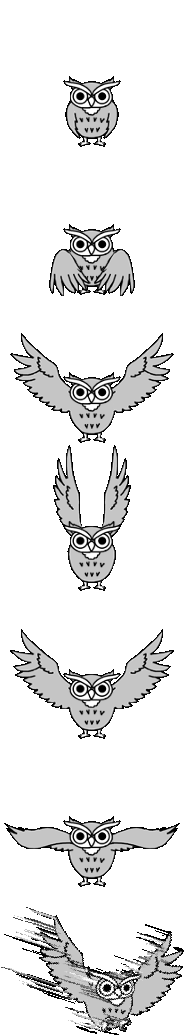
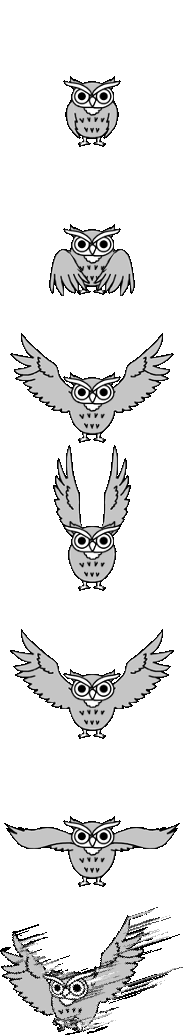
Updated NPC's Sprites

diff --git a/Content/NPCs/CycloneBoss/Cyclone.cs b/Content/NPCs/CycloneBoss/Cyclone.cs
@@ -21,7 +21,8 @@ namespace TheBattleCats.Content.NPCs.CycloneBoss
         {
             Idle,
             Attack1,
-
+            Attack2,
+            Attack3,
         }
 
         public ref float AIState => ref NPC.ai[0];
@@ -43,8 +44,8 @@ namespace TheBattleCats.Content.NPCs.CycloneBoss
             NPC.knockBackResist = 0f;
             NPC.noGravity = true;
             NPC.noTileCollide = true;
-            NPC.width = 140;
-            NPC.height = 140;
+            NPC.width = 120;
+            NPC.height = 120;
             NPC.boss = true;
         }
 
@@ -95,6 +96,13 @@ namespace TheBattleCats.Content.NPCs.CycloneBoss
                 case (float)ActionState.Attack1:
                     Attack1();
                     break;
+                case (float)ActionState.Attack2:
+                    Attack2();
+                    break;
+                case (float)ActionState.Attack3:
+                    Attack3();
+                    break;
+                
 
             }
 
@@ -110,7 +118,7 @@ namespace TheBattleCats.Content.NPCs.CycloneBoss
             if (AITimer >= 120f)
             {
                 AITimer = 0f;
-                AIState = (float)ActionState.Attack1;
+                AIState = (float)ActionState.Attack3;
             }
         }
 
@@ -173,8 +181,203 @@ namespace TheBattleCats.Content.NPCs.CycloneBoss
                 AITimer = 0f;
                 OrbitAngle = 0f;
                 LaunchDirection = Vector2.Zero;
-                AIState = (float)ActionState.Attack1;
+                AIState = (float)ActionState.Attack2;
             }
         }
+
+    private float Attack2Angle = 0f;
+private Vector2 CycloneLaunchTarget = Vector2.Zero;
+
+private void Attack2()
+{
+    Player player = Main.player[NPC.target];
+    AITimer++;
+
+    if (AITimer == 1f)
+    {
+        // Pick random angle, place all 3 (2 copies + boss) evenly around circle
+        Attack2Angle = Main.rand.NextFloat(0, MathHelper.TwoPi);
+        CycloneLaunchTarget = player.Center; // store player pos once
+
+        float angle1 = Attack2Angle;
+        float angle2 = Attack2Angle + MathHelper.TwoPi / 3f;
+        float angle3 = Attack2Angle + MathHelper.TwoPi / 3f * 2f;
+
+        // Teleport main boss to its position
+        NPC.Center = player.Center + new Vector2(OrbitRadius, 0f).RotatedBy(angle1);
+        NPC.alpha  = 255;
+
+        if (Main.netMode != NetmodeID.MultiplayerClient)
+        {
+            NPC.NewNPC(NPC.GetSource_FromAI(), 
+                (int)(player.Center + new Vector2(OrbitRadius, 0f).RotatedBy(angle2)).X,
+                (int)(player.Center + new Vector2(OrbitRadius, 0f).RotatedBy(angle2)).Y,
+                ModContent.NPCType<CycloneClone>());
+
+            NPC.NewNPC(NPC.GetSource_FromAI(),
+                (int)(player.Center + new Vector2(OrbitRadius, 0f).RotatedBy(angle3)).X,
+                (int)(player.Center + new Vector2(OrbitRadius, 0f).RotatedBy(angle3)).Y,
+                ModContent.NPCType<CycloneClone>());
+        }
+        NPC.netUpdate = true;
+    }
+
+    if (AITimer >= 1f)
+    {
+        NPC.alpha = (int)MathHelper.Lerp(255, 0, (AITimer - 60f) / 60f);
+    }
+
+    if (AITimer <= 120f)
+    {
+        NPC.velocity = Vector2.Zero;
+        NPC.direction = NPC.Center.X < player.Center.X ? 1 : -1;
+        NPC.spriteDirection = NPC.direction;
+        return;
+    }
+
+
+    // Dash toward stored player position
+    Vector2 launchDir = Vector2.Normalize(CycloneLaunchTarget - NPC.Center);
+    NPC.velocity = launchDir * 14f;
+
+    if (AITimer >= 180f)
+    {
+        NPC.alpha  = 0;
+        AITimer    = 0f;
+        CycloneLaunchTarget = Vector2.Zero;
+        AIState    = (float)ActionState.Idle;
+    }
 }
+private int ShootTimer = 0;
+
+private void Attack3()
+{
+    Player player = Main.player[NPC.target];
+    AITimer++;
+
+    // Slowly move toward player
+    Vector2 toPlayer = Vector2.Normalize(player.Center - NPC.Center);
+    NPC.velocity = Vector2.Lerp(NPC.velocity, toPlayer * 3f, 0.05f);
+
+    // Face player
+    NPC.direction = NPC.Center.X < player.Center.X ? 1 : -1;
+    NPC.spriteDirection = NPC.direction;
+
+    // Shoot every 30 ticks (0.5 seconds)
+    ShootTimer++;
+    if (ShootTimer >= 30)
+    {
+        ShootTimer = 0;
+
+        if (Main.netMode != NetmodeID.MultiplayerClient)
+        {
+            // Pick random projectile from 4 types
+            int projType = Main.rand.Next(4) switch
+            {
+                0 => ModContent.ProjectileType<CycloneProjectile1>(),
+                1 => ModContent.ProjectileType<CycloneProjectile2>(),
+                2 => ModContent.ProjectileType<CycloneProjectile3>(),
+                _ => ModContent.ProjectileType<CycloneProjectile4>(),
+            };
+
+            Vector2 shootDir = Vector2.Normalize(player.Center - NPC.Center);
+            int damage = NPC.GetAttackDamage_ForProjectiles(30f, 20f);
+
+            Projectile.NewProjectile(
+                NPC.GetSource_FromAI(),
+                NPC.Center,
+                shootDir * 10f,
+                projType,
+                damage,
+                2f,
+                Main.myPlayer
+            );
+        }
+    }
+
+    // End after 5 seconds
+    if (AITimer >= 300f)
+    {
+        ShootTimer = 0;
+        AITimer    = 0f;
+        AIState    = (float)ActionState.Attack1;
+    }
+}
+
+}
+
+public class CycloneClone : ModNPC
+{
+    public ref float AITimer => ref NPC.ai[0];
+    private Vector2 LaunchTarget = Vector2.Zero;
+    
+    private const int FadeInDuration = 120;
+    private const int TargetAlpha    = 160; // semi transparent, lower = more visible
+
+    public override void SetDefaults()
+    {
+        NPC.width         = 140;
+        NPC.height        = 140;
+        NPC.damage        = 30;
+        NPC.defense       = 0;
+        NPC.lifeMax       = 1;
+        NPC.noGravity     = true;
+        NPC.noTileCollide = true;
+        NPC.knockBackResist = 0f;
+        NPC.alpha         = 255; // start invisible
+    }
+
+    public override void SetStaticDefaults()
+    {
+        Main.npcFrameCount[NPC.type] = 29;
+    }
+
+    
+
+    public override void FindFrame(int frameHeight)
+    {
+        NPC.frameCounter++;
+        if (NPC.frameCounter >= 4) // 12 fps
+        {
+            NPC.frameCounter = 0;
+            NPC.frame.Y += frameHeight;
+            if (NPC.frame.Y >= frameHeight * Main.npcFrameCount[NPC.type])
+                NPC.frame.Y = 0;
+        }
+    }
+
+    public override void AI()
+    {
+        AITimer++;
+        NPC.TargetClosest(true);
+        Player player = Main.player[NPC.target];
+
+        // Store player position once on first tick
+        if (AITimer == 1f)
+        {
+            LaunchTarget = player.Center;
+            NPC.netUpdate = true;
+        }
+
+        // Fade in to semi transparent
+        if (AITimer <= FadeInDuration)
+        {
+            NPC.alpha = (int)MathHelper.Lerp(255, TargetAlpha, AITimer / FadeInDuration);
+            NPC.velocity = Vector2.Zero;
+            NPC.direction = NPC.Center.X < player.Center.X ? 1 : -1;
+            NPC.spriteDirection = NPC.direction;
+            return;
+        }
+
+        // Dash toward stored player position
+        Vector2 launchDir = Vector2.Normalize(LaunchTarget - NPC.Center);
+        NPC.velocity = launchDir * 14f;
+
+        if (AITimer >= 180f)
+            NPC.active = false;
+
+            
+    }
+}
+
 }

diff --git a/Content/NPCs/CycloneBoss/CycloneProjectile.cs b/Content/NPCs/CycloneBoss/CycloneProjectile.cs
@@ -1,0 +1,90 @@
+using Microsoft.Xna.Framework;
+using Microsoft.Xna.Framework.Graphics;
+using Terraria;
+using Terraria.ModLoader;
+using Terraria.ID;
+using Terraria.DataStructures;
+using System;
+using System.Collections.Generic;
+using Terraria.Audio;
+using Terraria.GameContent;
+using ReLogic.Content;
+
+namespace TheBattleCats.Content.NPCs.CycloneBoss
+{
+    public class CycloneProjectile1 : ModProjectile
+    {
+        public override void SetDefaults()
+        {
+            Projectile.width       = 16;
+            Projectile.height      = 16;
+            Projectile.hostile     = true;
+            Projectile.friendly    = false;
+            Projectile.tileCollide = true;
+            Projectile.timeLeft    = 300;
+            Projectile.aiStyle     = -1;
+        }
+
+        public override void AI()
+        {
+            Projectile.rotation = Projectile.velocity.ToRotation();
+        }
+    }
+
+    public class CycloneProjectile2 : ModProjectile
+    {
+        public override void SetDefaults()
+        {
+            Projectile.width       = 16;
+            Projectile.height      = 16;
+            Projectile.hostile     = true;
+            Projectile.friendly    = false;
+            Projectile.tileCollide = true;
+            Projectile.timeLeft    = 300;
+            Projectile.aiStyle     = -1;
+        }
+
+        public override void AI()
+        {
+            Projectile.rotation = Projectile.velocity.ToRotation();
+        }
+    }
+
+    public class CycloneProjectile3 : ModProjectile
+    {
+        public override void SetDefaults()
+        {
+            Projectile.width       = 16;
+            Projectile.height      = 16;
+            Projectile.hostile     = true;
+            Projectile.friendly    = false;
+            Projectile.tileCollide = true;
+            Projectile.timeLeft    = 300;
+            Projectile.aiStyle     = -1;
+        }
+
+        public override void AI()
+        {
+            Projectile.rotation = Projectile.velocity.ToRotation();
+        }
+    }
+
+    public class CycloneProjectile4 : ModProjectile
+    {
+        public override void SetDefaults()
+        {
+            Projectile.width       = 16;
+            Projectile.height      = 16;
+            Projectile.hostile     = true;
+            Projectile.friendly    = false;
+            Projectile.tileCollide = true;
+            Projectile.timeLeft    = 300;
+            Projectile.aiStyle     = -1;
+        }
+
+        public override void AI()
+        {
+            Projectile.rotation = Projectile.velocity.ToRotation();
+        }
+    }
+}

diff --git a/Content/NPCs/Tackey.cs b/Content/NPCs/Tackey.cs
@@ -103,7 +103,7 @@ namespace TheBattleCats.Content.NPCs
             float diff    = targetX - NPC.Center.X;
 
             // Face the player
-            NPC.spriteDirection = NPC.direction = (player.Center.X > NPC.Center.X) ? -1 : 1;
+            NPC.spriteDirection = NPC.direction = (player.Center.X > NPC.Center.X) ? 1 : -1;
 
             if (Math.Abs(diff) <= PositionTolerance)
             {
@@ -208,11 +208,11 @@ namespace TheBattleCats.Content.NPCs
                 Main.myPlayer
             );
 
-            Vector2 spawnPosSmoke = NPC.Center + new Vector2(NPC.spriteDirection * 16f, -20f);
+            Vector2 spawnPosSmoke = NPC.Center + new Vector2(NPC.spriteDirection * 24f, -20f) + new Vector2(20f,0);
 
             Projectile.NewProjectile(
                 NPC.GetSource_FromAI(),
-                spawnPos,
+                spawnPosSmoke,
                 direction * speed,
                 ModContent.ProjectileType<TackeySmoke>(),
                 0,

diff --git a/Content/NPCs/Owlbro.cs b/Content/NPCs/Owlbro.cs
@@ -245,7 +245,7 @@ namespace TheBattleCats.Content.NPCs
             else if (State == ActionState.Attack)
             {
                 // Flip sprite based on which horizontal direction we're dashing
-                NPC.spriteDirection = NPC.velocity.X < 0f ? 1 : -1;
+                NPC.spriteDirection = NPC.velocity.X < 0f ? -1 : 1;
                 
                 // Frame 6 = attack
                 NPC.frame.Y = 6 * frameHeight;
